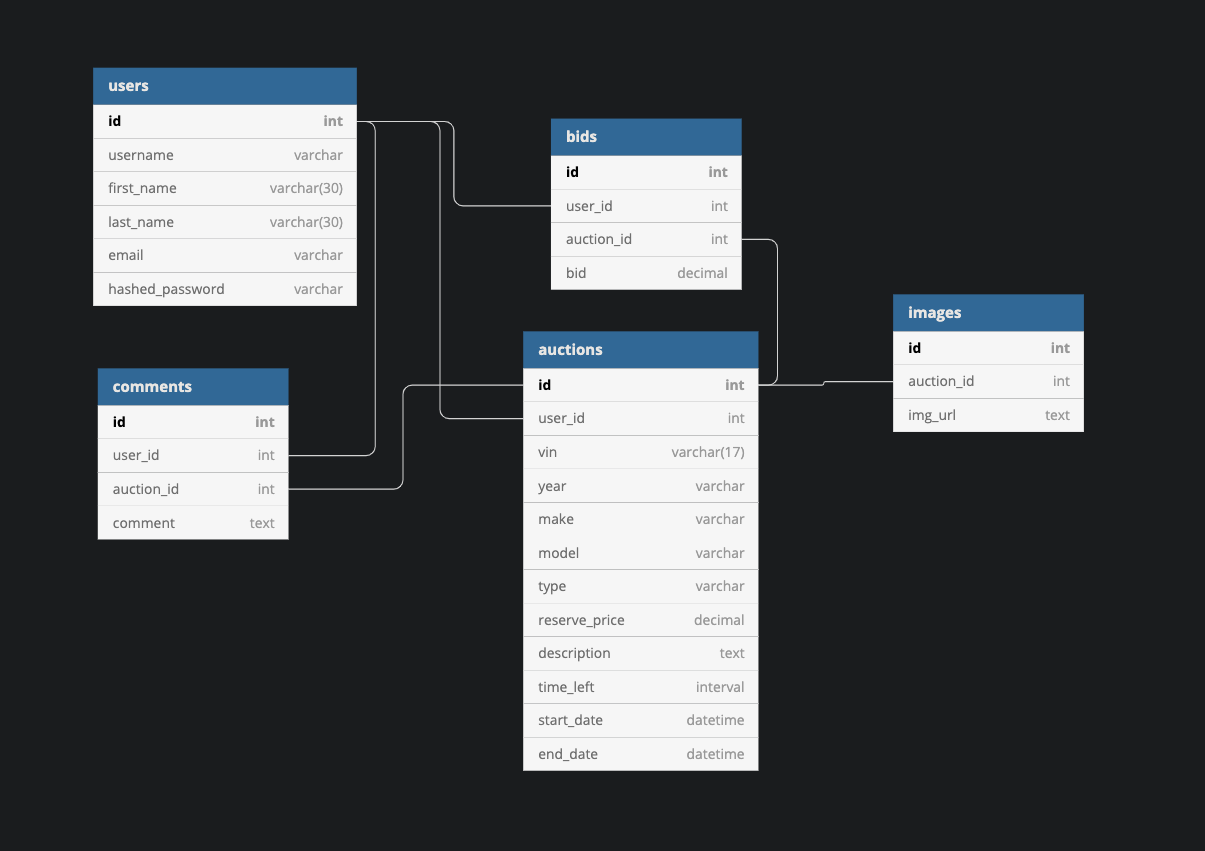
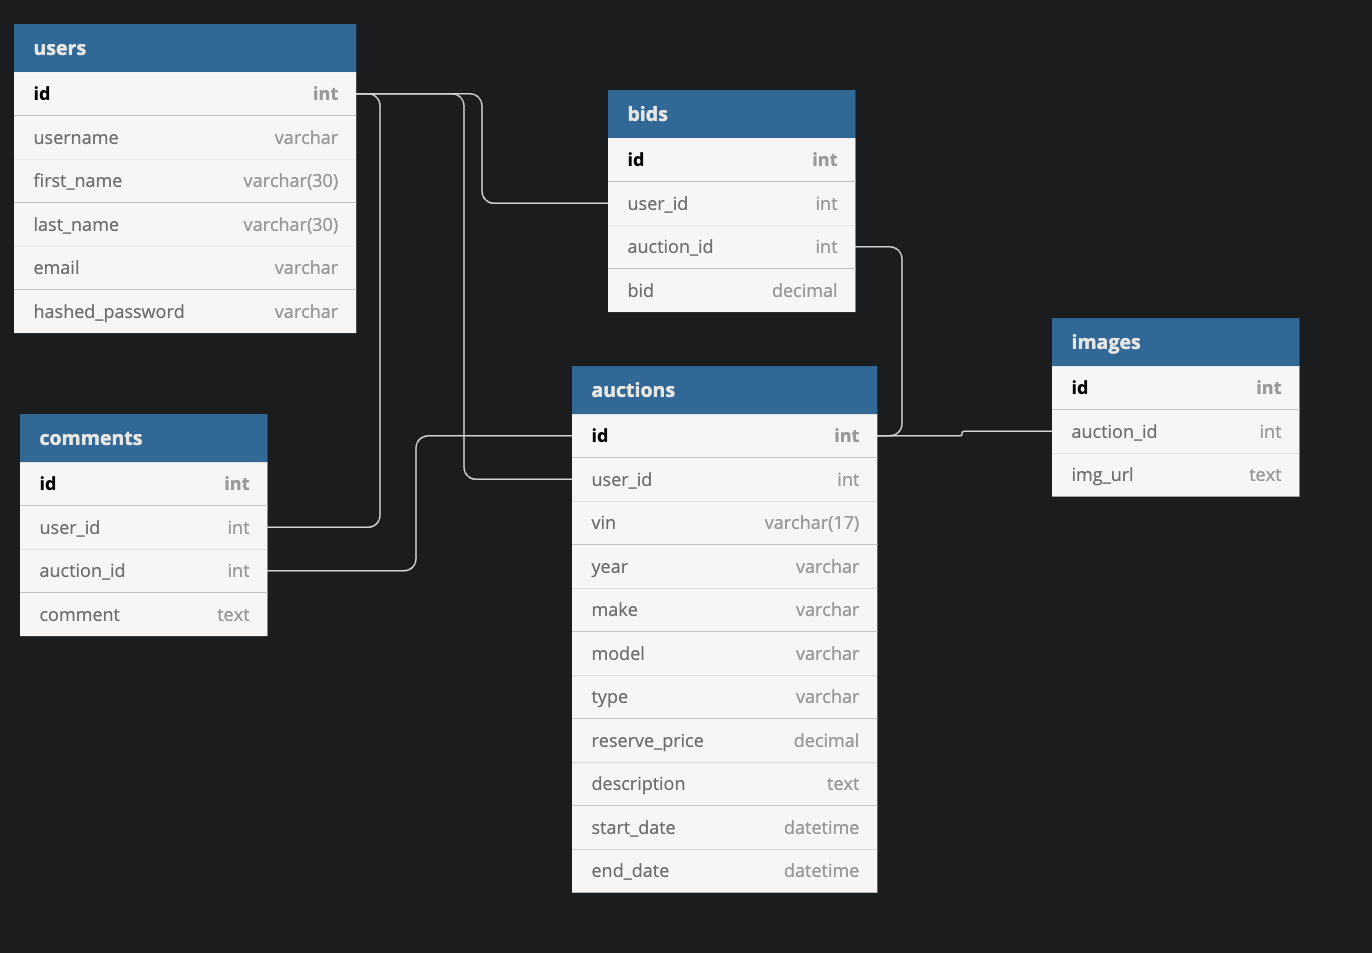
work on auction form and updated db schema

Changed region(s): [[0.0, 0.0, 0.9519, 0.9471]]

diff --git a/react-app/src/components/AuctionForm/index.js b/react-app/src/components/AuctionForm/index.js
@@ -1,97 +1,3 @@
-import React, { useEffect, useState } from 'react';
-import { useHistory } from 'react-router-dom'
-import { useSelector, useDispatch } from 'react-redux';
+import AuctionForm from "./AuctionForm";
 
-
-const AuctionForm = () => {
-
-    return (
-        <>
-            <form>
-                <div>
-					{errors?.map((error, ind) => (
-						<div key={ind}>{error}</div>
-					))}
-				</div>
-                <div className='forms-container'>
-                    <div className='auction-container'>
-                        <p>Submit your vehicle for auction</p>
-                            <input
-                                className='form-input'
-                                placeholder='VIN'
-                                type='text'
-                                name='vin'
-                                onChange={}
-                                value={}
-                                required={true}></input>
-                            <input
-                                className='form-input'
-                                placeholder='Year'
-                                type='text'
-                                name='year'
-                                onChange={}
-                                value={}
-                                required={true}></input>
-                            <input
-                                className='form-input'
-                                placeholder='Make'
-                                type='text'
-                                name='make'
-                                onChange={}
-                                value={}
-                                required={true}></input>
-                            <input
-                                className='form-input'
-                                placeholder='Model'
-                                type='text'
-                                name='model'
-                                onChange={}
-                                value={}
-                                required={true}></input>
-                            <input
-                                className='form-input'
-                                placeholder='Type'
-                                type='text'
-                                name='type'
-                                onChange={}
-                                value={}
-                                required={true}></input>
-                            <input
-                                className='form-input'
-                                placeholder='Reserve Price (if applicable)'
-                                type='number'
-                                name='reservePrice'
-                                onChange={}
-                                value={}
-                                required={true}></input>
-                            <textarea
-                                className='form-input'
-                                placeholder='Please leave a description about your vehicle.'
-                                name='description'
-                                onChange={}
-                                value={}
-                                required={true}></textarea>
-                            <input
-                                className='form-input'
-                                placeholder='Start Date'
-                                type='date'
-                                name='startDate'
-                                onChange={}
-                                value={}
-                                required={true}></input>
-                            <input
-                                className='form-input'
-                                placeholder='End Date'
-                                type='date'
-                                name='endDate'
-                                onChange={}
-                                value={}
-                                required={true}></input>
-                    </div>
-                </div>
-            </form>
-        </>
-    )
-}
-
-export default AuctionForm;
+export default AuctionForm

diff --git a/react-app/src/components/AuctionForm/AuctionForm.js b/react-app/src/components/AuctionForm/AuctionForm.js
@@ -1,0 +1,97 @@
+import React, { useEffect, useState } from 'react';
+import { useHistory } from 'react-router-dom'
+import { useSelector, useDispatch } from 'react-redux';
+
+
+const AuctionForm = () => {
+
+    return (
+        <>
+            <form>
+                <div>
+					{errors?.map((error, ind) => (
+						<div key={ind}>{error}</div>
+					))}
+				</div>
+                <div className='forms-container'>
+                    <div className='auction-container'>
+                        <p>Submit your vehicle for auction</p>
+                            <input
+                                className='form-input'
+                                placeholder='VIN'
+                                type='text'
+                                name='vin'
+                                onChange={}
+                                value={}
+                                required={true}></input>
+                            <input
+                                className='form-input'
+                                placeholder='Year'
+                                type='text'
+                                name='year'
+                                onChange={}
+                                value={}
+                                required={true}></input>
+                            <input
+                                className='form-input'
+                                placeholder='Make'
+                                type='text'
+                                name='make'
+                                onChange={}
+                                value={}
+                                required={true}></input>
+                            <input
+                                className='form-input'
+                                placeholder='Model'
+                                type='text'
+                                name='model'
+                                onChange={}
+                                value={}
+                                required={true}></input>
+                            <input
+                                className='form-input'
+                                placeholder='Type'
+                                type='text'
+                                name='type'
+                                onChange={}
+                                value={}
+                                required={true}></input>
+                            <input
+                                className='form-input'
+                                placeholder='Reserve Price (if applicable)'
+                                type='number'
+                                name='reservePrice'
+                                onChange={}
+                                value={}
+                                required={true}></input>
+                            <textarea
+                                className='form-input'
+                                placeholder='Please leave a description about your vehicle.'
+                                name='description'
+                                onChange={}
+                                value={}
+                                required={true}></textarea>
+                            <input
+                                className='form-input'
+                                placeholder='Start Date'
+                                type='date'
+                                name='startDate'
+                                onChange={}
+                                value={}
+                                required={true}></input>
+                            <input
+                                className='form-input'
+                                placeholder='End Date'
+                                type='date'
+                                name='endDate'
+                                onChange={}
+                                value={}
+                                required={true}></input>
+                    </div>
+                </div>
+            </form>
+        </>
+    )
+}
+
+export default AuctionForm;

diff --git a/react-app/src/App.js b/react-app/src/App.js
@@ -8,6 +8,7 @@ import User from './components/User';
 import AuctionsPage from './components/AuctionsPage';
 import { authenticate } from './store/session';
 import AuctionDetail from './components/AuctionDetail';
+import AuctionForm from './components/AuctionForm';
 
 function App() {
   const [loaded, setLoaded] = useState(false);
@@ -34,6 +35,7 @@ function App() {
       <Route path='/auctions/:id' exact={true}>
         <AuctionDetail />
       </Route>
+      
         <ProtectedRoute path='/users' exact={true} >
           <UsersList/>
         </ProtectedRoute>
